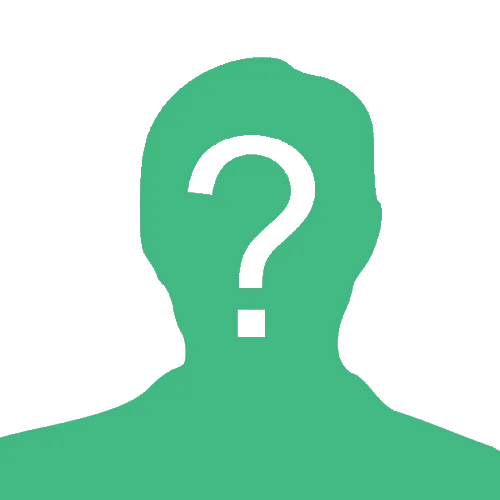
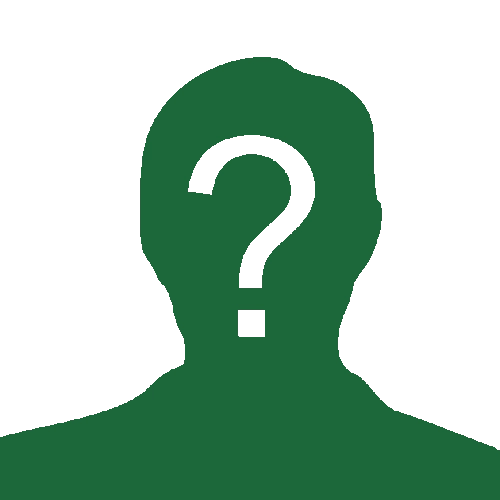
change border speakerCard + color of unknownSpeaker

diff --git a/app/components/SpeakerCard.vue b/app/components/SpeakerCard.vue
@@ -34,7 +34,7 @@ defineProps({
 
 <template>
   <article
-    class="flex w-full flex-col gap-10 rounded-2xl border-2 border-green-950 bg-slate-200 p-8 dark:bg-transparent lg:flex-row"
+    class="flex w-full flex-col gap-10 rounded-2xl border-2 border-slate-500 bg-slate-200 p-8 dark:bg-transparent lg:flex-row"
   >
     <div class="relative flex w-full flex-col gap-2 lg:w-1/3">
       <img
@@ -76,7 +76,7 @@ defineProps({
             >
               <Icon
                 name="mdi:linkedin"
-                class="text-3xl text-primaryblue transition-all hover:scale-125 hover:text-primarygreen-100 hover:duration-200 dark:text-white dark:hover:text-primarygreen-100"
+                class="text-3xl text-primaryblue transition-all hover:scale-125 hover:text-primarygreen-200 hover:duration-200 dark:text-white dark:hover:text-primarygreen-200"
               />
             </NuxtLink>
           </li>
@@ -89,7 +89,7 @@ defineProps({
             >
               <Icon
                 name="mdi:github"
-                class="text-3xl text-primaryblue transition-all hover:scale-125 hover:text-primarygreen-100 hover:duration-200 dark:text-white dark:hover:text-primarygreen-100"
+                class="text-3xl text-primaryblue transition-all hover:scale-125 hover:text-primarygreen-200 hover:duration-200 dark:text-white dark:hover:text-primarygreen-200"
               />
             </NuxtLink>
           </li>

diff --git a/app/components/TalkCard.vue b/app/components/TalkCard.vue
@@ -6,7 +6,7 @@ const slug = computed(() => slugify(props.talk.snippet.title));
 
 <template>
   <article
-    class="flex flex-col gap-5 rounded-2xl border-2 border-green-950 bg-slate-200 p-8 dark:bg-transparent lg:flex-row lg:gap-10"
+    class="flex flex-col gap-5 rounded-2xl border-2 border-slate-500 bg-slate-200 p-8 dark:bg-transparent lg:flex-row lg:gap-10"
   >
     <div
       class="h-32 w-full overflow-hidden rounded-2xl sm:h-56 md:h-64 lg:h-28 lg:w-1/3 xl:h-36"
